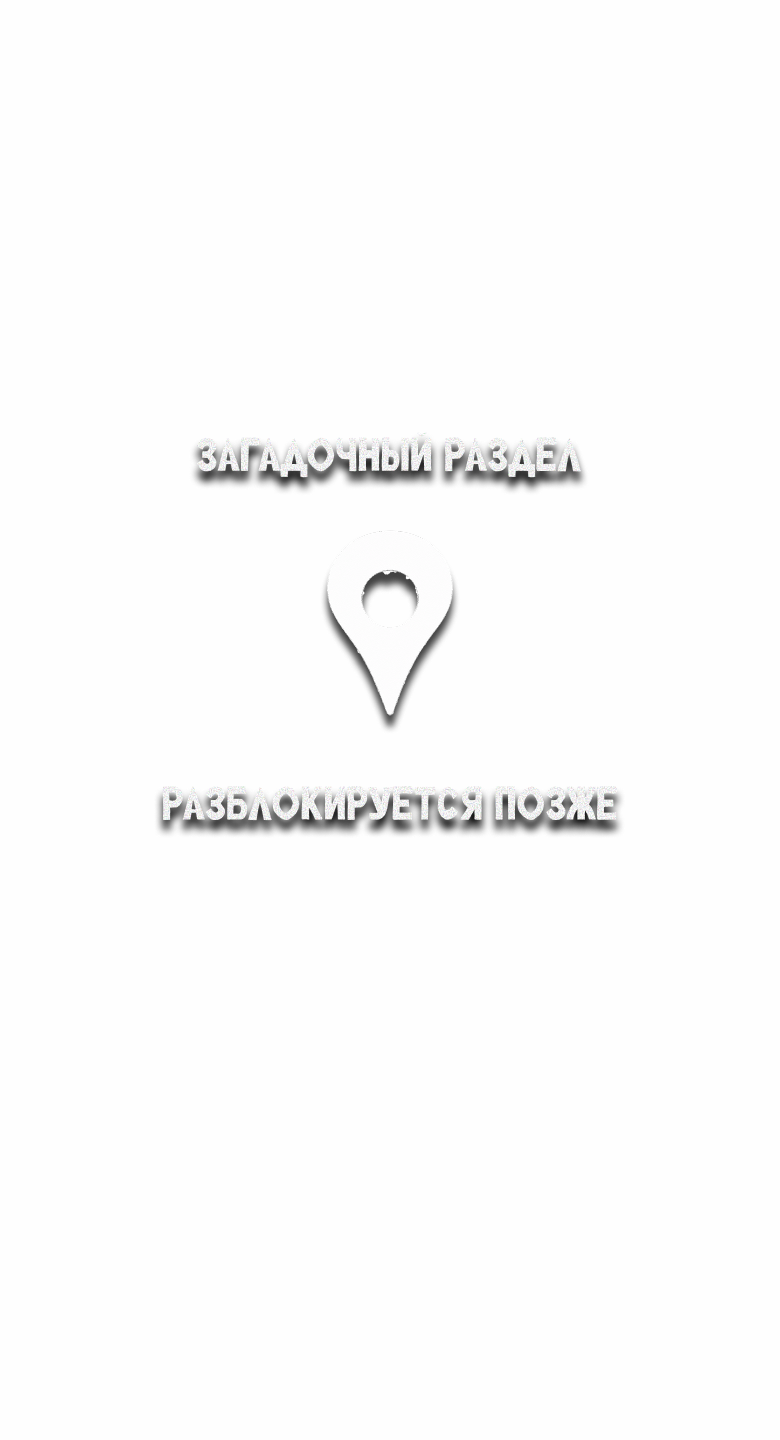
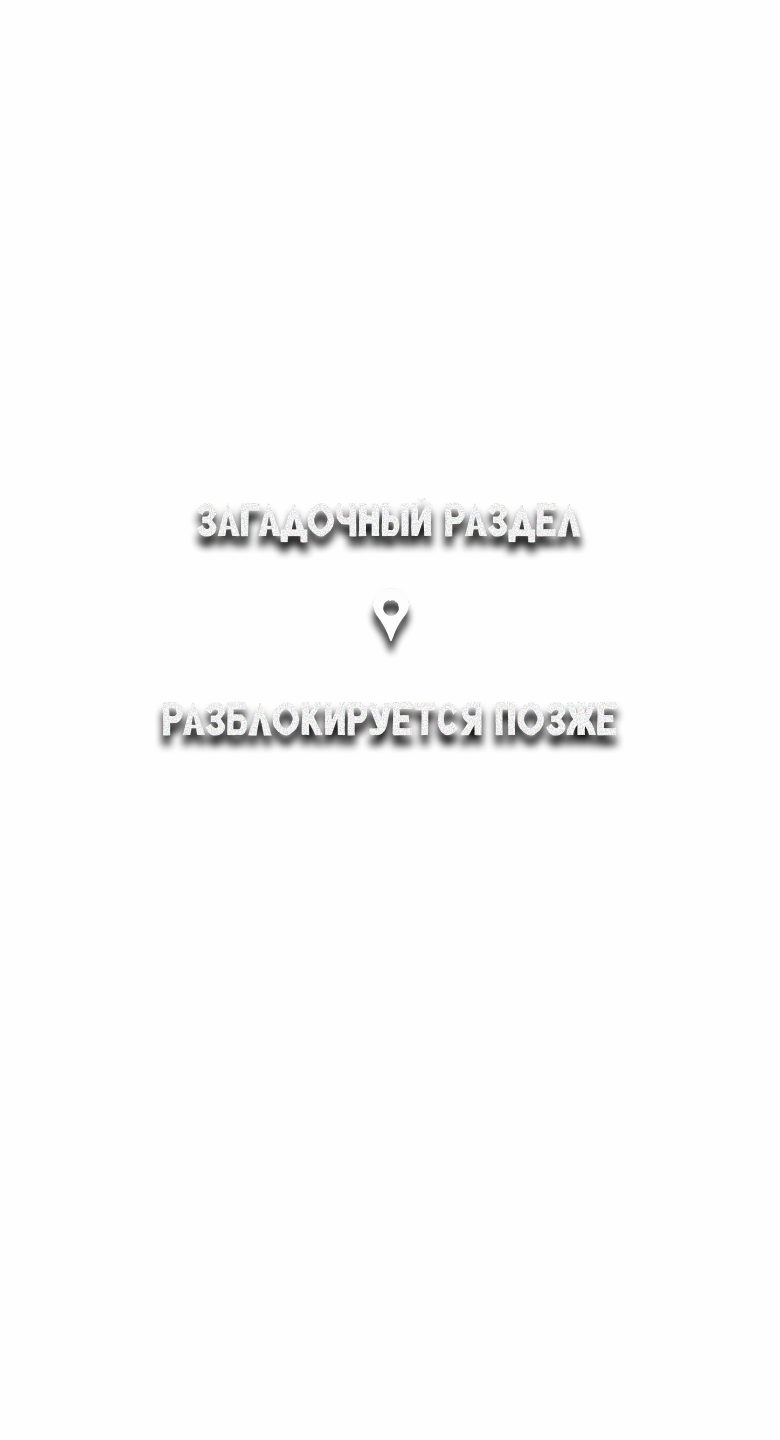
Bake Geo lock screen into animated asset

Changed region(s): [[0.1846, 0.2812, 0.8, 0.5938]]

diff --git a/site/app.js b/site/app.js
@@ -12,10 +12,7 @@ const barImages = [...document.querySelectorAll("[data-bar-image]")];
 const barAnimationImages = [...document.querySelectorAll("[data-bar-animation-image]")];
 const barVideos = [...document.querySelectorAll("[data-bar-video]")];
 const geoLockOverlay = document.querySelector("[data-geo-lock-overlay]");
-const geoLockImages = [...document.querySelectorAll("[data-geo-lock-image]")];
-const geoLockAnimation = document.querySelector("[data-geo-lock-animation]");
-const geoLockAnimationImage = document.querySelector("[data-geo-lock-animation-image]");
-const geoLockVideo = document.querySelector("[data-geo-lock-video]");
+const geoLockImage = document.querySelector("[data-geo-lock-image]");
 const geoEyeToggle = document.querySelector("[data-geo-eye-toggle]");
 const navigationUnderlay = document.querySelector("[data-navigation-underlay]");
 const navigation = initNavigation(document.querySelector("[data-navigation]"), (page) => showPage(page));
@@ -43,7 +40,6 @@ let barImagesReadyPromise = null;
 let barAnimationImagesReadyPromise = null;
 let barVideosPrepared = false;
 let geoLockAssetsPromise = null;
-let geoLockVideoPrepared = false;
 
 const CIGARETTE_ANIMATION_DURATION = 4000;
 const CIGARETTE_IDLE_INTRO_DURATION = 2300;
@@ -54,13 +50,11 @@ function supportsWebmVideo(video) {
 }
 
 const barAnimationFormat = "image";
-const geoLockAnimationFormat = "image";
 let cigaretteAnimationFormat = "image";
 
 barVideos.forEach((video) => {
   video.closest("[data-bar-cocktail]")?.setAttribute("data-animation-format", barAnimationFormat);
 });
-geoLockAnimation?.setAttribute("data-animation-format", geoLockAnimationFormat);
 cigaretteButton.dataset.animationFormat = cigaretteAnimationFormat;
 
 function useCigaretteImageFallback() {
@@ -464,56 +458,13 @@ function syncBarPlayback() {
 
 function prepareGeoLockAssets() {
   if (!geoLockAssetsPromise) {
-    const imagePreparations = geoLockImages.map((image) => loadDecodedImage(
-        image,
-        image.dataset.src,
-        { highPriority: image.classList.contains("geo-lock-back") },
-      ));
-
-    if (geoLockAnimationFormat === "image") {
-      imagePreparations.push(
-        loadAnimatedImage(geoLockAnimationImage, geoLockAnimationImage.dataset.src)
-          .then(() => geoLockAnimation.classList.add("is-playing"))
-          .catch((error) => {
-            geoLockAnimation.classList.remove("is-playing");
-            console.warn("Could not load the locked Geo animation", error);
-          }),
-      );
-    }
-
-    geoLockAssetsPromise = Promise.all(imagePreparations).catch((error) => {
+    geoLockImage.fetchPriority = "high";
+    geoLockAssetsPromise = loadAnimatedImage(geoLockImage, geoLockImage.dataset.src).catch((error) => {
       geoLockAssetsPromise = null;
       throw error;
     });
   }
-  if (geoLockAnimationFormat === "video" && !geoLockVideoPrepared) {
-    geoLockVideoPrepared = true;
-    geoLockVideo.addEventListener("playing", () => geoLockAnimation.classList.add("is-playing"));
-    geoLockVideo.addEventListener("error", () => geoLockAnimation.classList.remove("is-playing"));
-    geoLockVideo.src = geoLockVideo.dataset.src;
-    geoLockVideo.preload = "auto";
-    geoLockVideo.load();
-  }
   return geoLockAssetsPromise;
-}
-
-function syncGeoLockPlayback() {
-  const active = app.dataset.page === "geo"
-    && app.dataset.geoLocked === "true"
-    && !document.hidden;
-  if (!active) {
-    geoLockVideo?.pause();
-    return;
-  }
-  if (geoLockAnimationFormat === "image") {
-    return;
-  }
-  const playRequest = geoLockVideo?.play();
-  playRequest?.catch((error) => {
-    if (error.name !== "AbortError") {
-      geoLockAnimation?.classList.remove("is-playing");
-    }
-  });
 }
 
 function commitPage(nextPage) {
@@ -529,7 +480,6 @@ function commitPage(nextPage) {
   timerScreenBackground?.setActive(nextPage === "home");
   syncTimerGlowPlayback();
   syncBarPlayback();
-  syncGeoLockPlayback();
 
   if (nextPage === "rsvp") {
     prepareRsvpAssets();
@@ -692,7 +642,6 @@ window.addEventListener("popstate", () => showPage(pageFromHash(), { updateUrl: 
 window.addEventListener("hashchange", () => showPage(pageFromHash(), { updateUrl: false }));
 document.addEventListener("visibilitychange", syncTimerGlowPlayback);
 document.addEventListener("visibilitychange", syncBarPlayback);
-document.addEventListener("visibilitychange", syncGeoLockPlayback);
 
 geoEyeToggle.addEventListener("click", async () => {
   const locked = app.dataset.geoLocked !== "true";
@@ -711,7 +660,6 @@ geoEyeToggle.addEventListener("click", async () => {
     "aria-label",
     locked ? "Показать открытую версию Гео" : "Показать закрытую версию Гео",
   );
-  syncGeoLockPlayback();
 });
 
 showPage(pageFromHash(), { updateUrl: false });

diff --git a/site/index.html b/site/index.html
@@ -35,7 +35,7 @@
         }
       })();
     </script>
-    <link rel="stylesheet" href="styles.css?v=20260915allwebp1" />
+    <link rel="stylesheet" href="styles.css?v=20260915geolocked1" />
   </head>
   <body>
     <main class="app" data-app data-page="loading">
@@ -143,14 +143,7 @@
         </div>
 
         <div class="geo-lock-overlay" data-geo-lock-overlay aria-hidden="true">
-          <img class="geo-lock-layer geo-lock-back" data-geo-lock-image data-src="backgrounds/geo/back-geo.png?v=20260915geoeye1" width="780" height="1440" decoding="async" alt="" draggable="false" />
-          <div class="geo-lock-animation" data-geo-lock-animation>
-            <img class="geo-lock-poster" data-geo-lock-image data-src="backgrounds/geo/animation-location.png?v=20260915geoeye1" width="390" height="720" decoding="async" alt="" draggable="false" />
-            <img class="geo-lock-animation-image" data-geo-lock-animation-image data-src="backgrounds/geo/geo-noise.webp?v=20260915allwebp1" width="256" height="256" decoding="async" alt="" draggable="false" />
-            <video class="geo-lock-video" data-geo-lock-video data-src="backgrounds/geo/geo-noise.webm?v=20260915geoeye1" preload="none" loop muted playsinline webkit-playsinline disablepictureinpicture aria-hidden="true"></video>
-          </div>
-          <div class="geo-lock-blur"></div>
-          <img class="geo-lock-layer geo-lock-front" data-geo-lock-image data-src="backgrounds/geo/front-geo.png?v=20260915geoeye1" width="780" height="1440" decoding="async" alt="" draggable="false" />
+          <img class="geo-lock-composite" data-geo-lock-image data-src="backgrounds/geo/geo-locked.webp?v=20260915geolocked2" width="780" height="1440" decoding="async" alt="" draggable="false" />
         </div>
 
         <button class="geo-eye-toggle" data-geo-eye-toggle type="button" aria-label="Показать закрытую версию Гео" aria-pressed="false">
@@ -375,6 +368,6 @@
       </div>
     </main>
 
-    <script type="module" src="app.js?v=20260915allwebp1"></script>
+    <script type="module" src="app.js?v=20260915geolocked1"></script>
   </body>
 </html>

diff --git a/site/styles.css b/site/styles.css
@@ -173,10 +173,7 @@ button {
 }
 
 .geo-lock-overlay,
-.geo-lock-layer,
-.geo-lock-animation,
-.geo-lock-poster,
-.geo-lock-blur {
+.geo-lock-composite {
   position: absolute;
   inset: 0;
   display: block;
@@ -197,52 +194,10 @@ button {
   opacity: 1;
 }
 
-.geo-lock-layer,
-.geo-lock-poster {
+.geo-lock-composite {
   object-fit: contain;
   user-select: none;
   -webkit-user-drag: none;
-}
-
-.geo-lock-back {
-  z-index: 0;
-}
-
-.geo-lock-animation {
-  z-index: 1;
-}
-
-.geo-lock-animation-image,
-.geo-lock-video {
-  position: absolute;
-  top: 22.3611%;
-  left: 11.5385%;
-  display: block;
-  width: 78.7179%;
-  height: auto;
-  aspect-ratio: 1;
-  object-fit: contain;
-  opacity: 0;
-}
-
-.geo-lock-animation[data-animation-format="image"].is-playing .geo-lock-animation-image,
-.geo-lock-animation[data-animation-format="video"].is-playing .geo-lock-video {
-  opacity: 1;
-}
-
-.geo-lock-animation.is-playing .geo-lock-poster {
-  opacity: 0;
-}
-
-.geo-lock-blur {
-  z-index: 2;
-  background: rgba(0, 0, 0, 0.08);
-  -webkit-backdrop-filter: blur(12px);
-  backdrop-filter: blur(12px);
-}
-
-.geo-lock-front {
-  z-index: 3;
 }
 
 .geo-eye-toggle {
